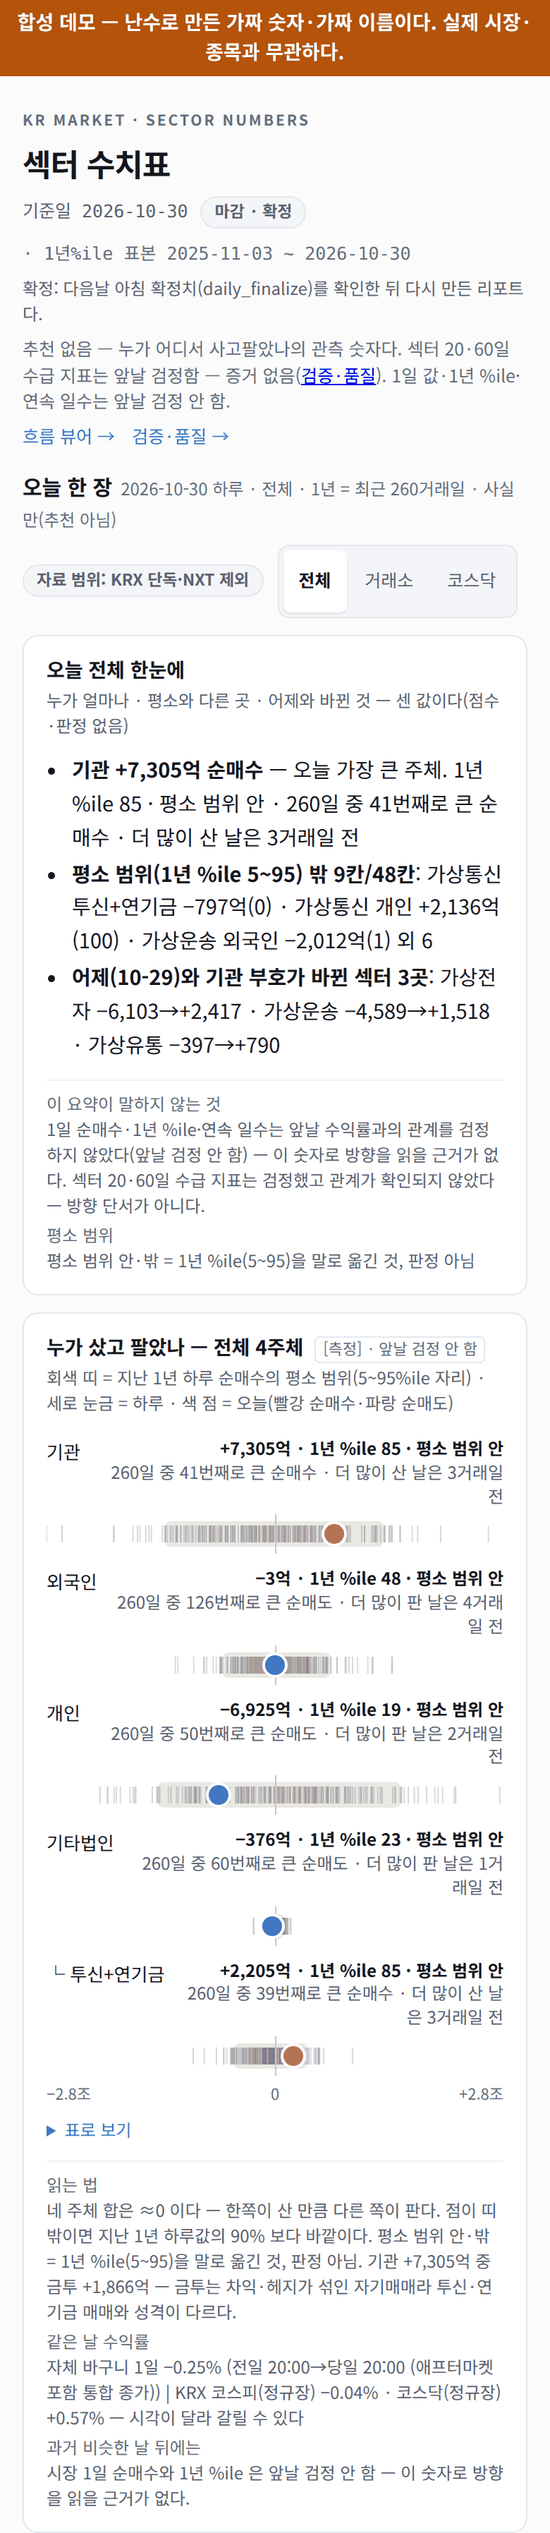
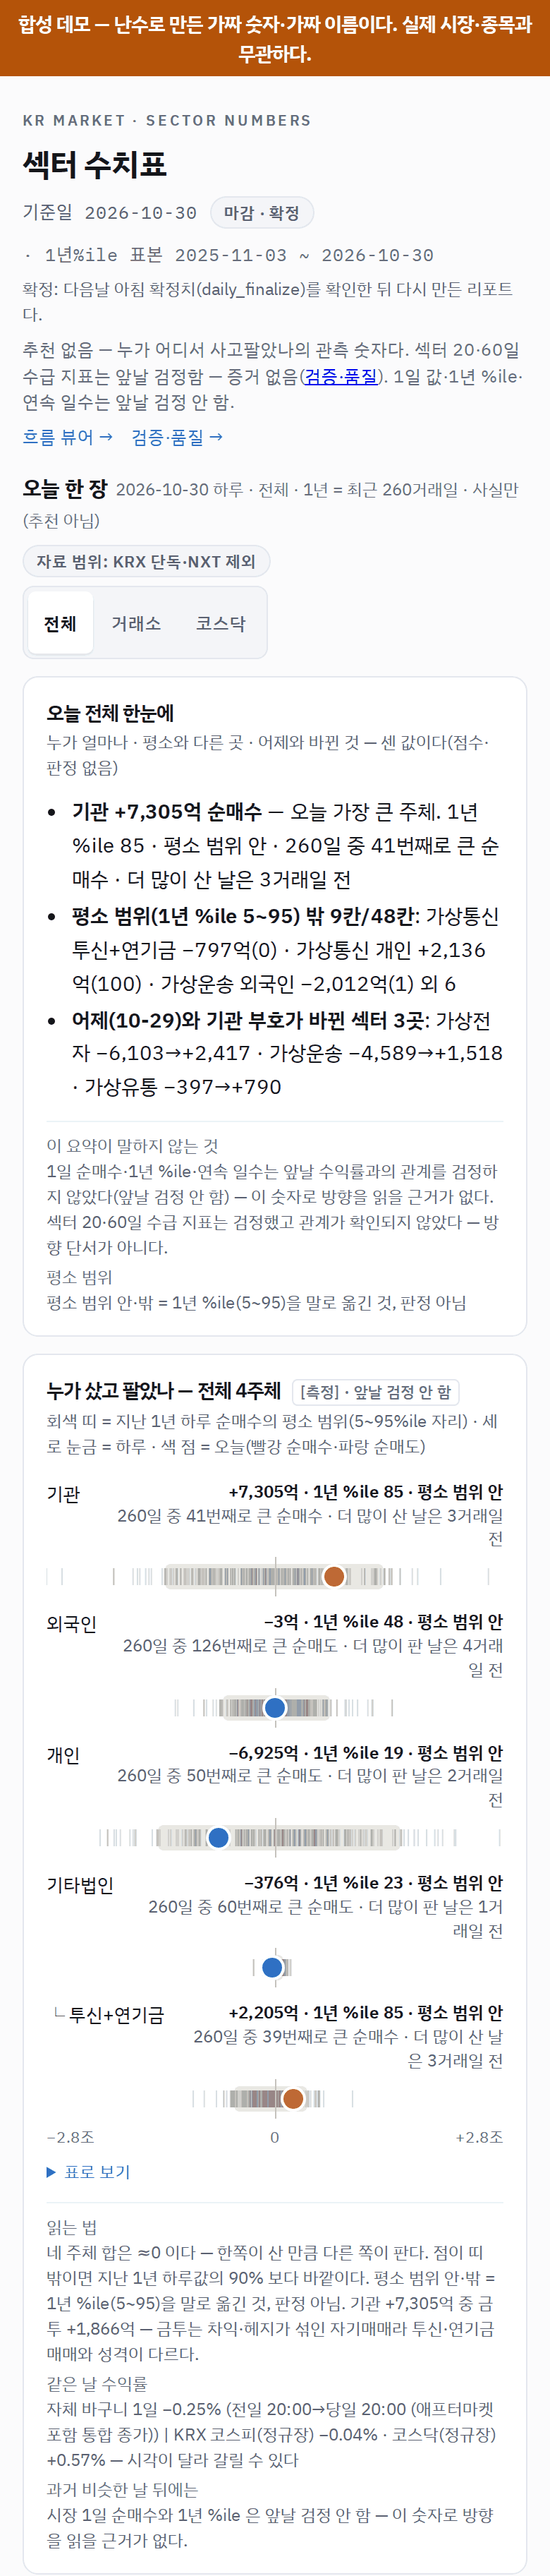
docs(images): 화면 코드 변경 뒤 데모 그림 다시 찍기
sw-flow·sw-ledger 의 적재 함수가 수급만 폴더를 알아보게 바뀌어 원장(docs/SCREENSHOTS.md)이 재촬영을
요구했다. 화면 모양은 그대로다 — scripts/demo_shots.py 로 다시 찍고 원장 sha 를 갱신.

diff --git a/docs/SCREENSHOTS.md b/docs/SCREENSHOTS.md
@@ -17,26 +17,26 @@ GIF 는 `scripts/map_video.py`(가짜 시계로 타임랩스를 30fps 로 찍어
 
 | 이미지 | 감시 경로 | 찍은 커밋 |
 |---|---|---|
-| docs/images/kqflow-today.png | src/sectorflow/tui/ | 06577ee229bc75eec7fdc689ce71c9c258ab9358 |
-| docs/images/kqflow-today.png | src/sectorflow/demo.py | 06577ee229bc75eec7fdc689ce71c9c258ab9358 |
-| docs/images/kqflow-table.png | src/sectorflow/tui/ | 06577ee229bc75eec7fdc689ce71c9c258ab9358 |
-| docs/images/kqflow-table.png | src/sectorflow/demo.py | 06577ee229bc75eec7fdc689ce71c9c258ab9358 |
-| docs/images/kqflow-names.png | src/sectorflow/tui/ | 06577ee229bc75eec7fdc689ce71c9c258ab9358 |
-| docs/images/kqflow-names.png | src/sectorflow/demo.py | 06577ee229bc75eec7fdc689ce71c9c258ab9358 |
-| docs/images/kqflow-combined.png | src/sectorflow/tui/ | 06577ee229bc75eec7fdc689ce71c9c258ab9358 |
-| docs/images/kqflow-combined.png | src/sectorflow/demo.py | 06577ee229bc75eec7fdc689ce71c9c258ab9358 |
-| docs/images/kqledger-table.png | src/sectorflow/tui/ | 06577ee229bc75eec7fdc689ce71c9c258ab9358 |
-| docs/images/kqledger-table.png | src/sectorflow/demo.py | 06577ee229bc75eec7fdc689ce71c9c258ab9358 |
-| docs/images/web-today.png | scripts/templates/ | 06577ee229bc75eec7fdc689ce71c9c258ab9358 |
-| docs/images/web-today.png | src/sectorflow/demo.py | 06577ee229bc75eec7fdc689ce71c9c258ab9358 |
-| docs/images/web-today-mobile.png | scripts/templates/ | 06577ee229bc75eec7fdc689ce71c9c258ab9358 |
-| docs/images/web-today-mobile.png | src/sectorflow/demo.py | 06577ee229bc75eec7fdc689ce71c9c258ab9358 |
-| docs/images/map-demo.png | scripts/templates/ | 06577ee229bc75eec7fdc689ce71c9c258ab9358 |
-| docs/images/map-demo.png | scripts/sector_map.py | 06577ee229bc75eec7fdc689ce71c9c258ab9358 |
-| docs/images/map-demo.png | src/sectorflow/flowmap.py | 06577ee229bc75eec7fdc689ce71c9c258ab9358 |
-| docs/images/map-demo.png | src/sectorflow/demo.py | 06577ee229bc75eec7fdc689ce71c9c258ab9358 |
-| docs/images/map-demo.gif | scripts/templates/ | 06577ee229bc75eec7fdc689ce71c9c258ab9358 |
-| docs/images/map-demo.gif | scripts/sector_map.py | 06577ee229bc75eec7fdc689ce71c9c258ab9358 |
-| docs/images/map-demo.gif | scripts/map_video.py | 06577ee229bc75eec7fdc689ce71c9c258ab9358 |
-| docs/images/map-demo.gif | src/sectorflow/flowmap.py | 06577ee229bc75eec7fdc689ce71c9c258ab9358 |
-| docs/images/map-demo.gif | src/sectorflow/demo.py | 06577ee229bc75eec7fdc689ce71c9c258ab9358 |
+| docs/images/kqflow-today.png | src/sectorflow/tui/ | 3f1868f6dc0f1ba37af0356293504233a69f74bf |
+| docs/images/kqflow-today.png | src/sectorflow/demo.py | 3f1868f6dc0f1ba37af0356293504233a69f74bf |
+| docs/images/kqflow-table.png | src/sectorflow/tui/ | 3f1868f6dc0f1ba37af0356293504233a69f74bf |
+| docs/images/kqflow-table.png | src/sectorflow/demo.py | 3f1868f6dc0f1ba37af0356293504233a69f74bf |
+| docs/images/kqflow-names.png | src/sectorflow/tui/ | 3f1868f6dc0f1ba37af0356293504233a69f74bf |
+| docs/images/kqflow-names.png | src/sectorflow/demo.py | 3f1868f6dc0f1ba37af0356293504233a69f74bf |
+| docs/images/kqflow-combined.png | src/sectorflow/tui/ | 3f1868f6dc0f1ba37af0356293504233a69f74bf |
+| docs/images/kqflow-combined.png | src/sectorflow/demo.py | 3f1868f6dc0f1ba37af0356293504233a69f74bf |
+| docs/images/kqledger-table.png | src/sectorflow/tui/ | 3f1868f6dc0f1ba37af0356293504233a69f74bf |
+| docs/images/kqledger-table.png | src/sectorflow/demo.py | 3f1868f6dc0f1ba37af0356293504233a69f74bf |
+| docs/images/web-today.png | scripts/templates/ | 3f1868f6dc0f1ba37af0356293504233a69f74bf |
+| docs/images/web-today.png | src/sectorflow/demo.py | 3f1868f6dc0f1ba37af0356293504233a69f74bf |
+| docs/images/web-today-mobile.png | scripts/templates/ | 3f1868f6dc0f1ba37af0356293504233a69f74bf |
+| docs/images/web-today-mobile.png | src/sectorflow/demo.py | 3f1868f6dc0f1ba37af0356293504233a69f74bf |
+| docs/images/map-demo.png | scripts/templates/ | 3f1868f6dc0f1ba37af0356293504233a69f74bf |
+| docs/images/map-demo.png | scripts/sector_map.py | 3f1868f6dc0f1ba37af0356293504233a69f74bf |
+| docs/images/map-demo.png | src/sectorflow/flowmap.py | 3f1868f6dc0f1ba37af0356293504233a69f74bf |
+| docs/images/map-demo.png | src/sectorflow/demo.py | 3f1868f6dc0f1ba37af0356293504233a69f74bf |
+| docs/images/map-demo.gif | scripts/templates/ | 3f1868f6dc0f1ba37af0356293504233a69f74bf |
+| docs/images/map-demo.gif | scripts/sector_map.py | 3f1868f6dc0f1ba37af0356293504233a69f74bf |
+| docs/images/map-demo.gif | scripts/map_video.py | 3f1868f6dc0f1ba37af0356293504233a69f74bf |
+| docs/images/map-demo.gif | src/sectorflow/flowmap.py | 3f1868f6dc0f1ba37af0356293504233a69f74bf |
+| docs/images/map-demo.gif | src/sectorflow/demo.py | 3f1868f6dc0f1ba37af0356293504233a69f74bf |
